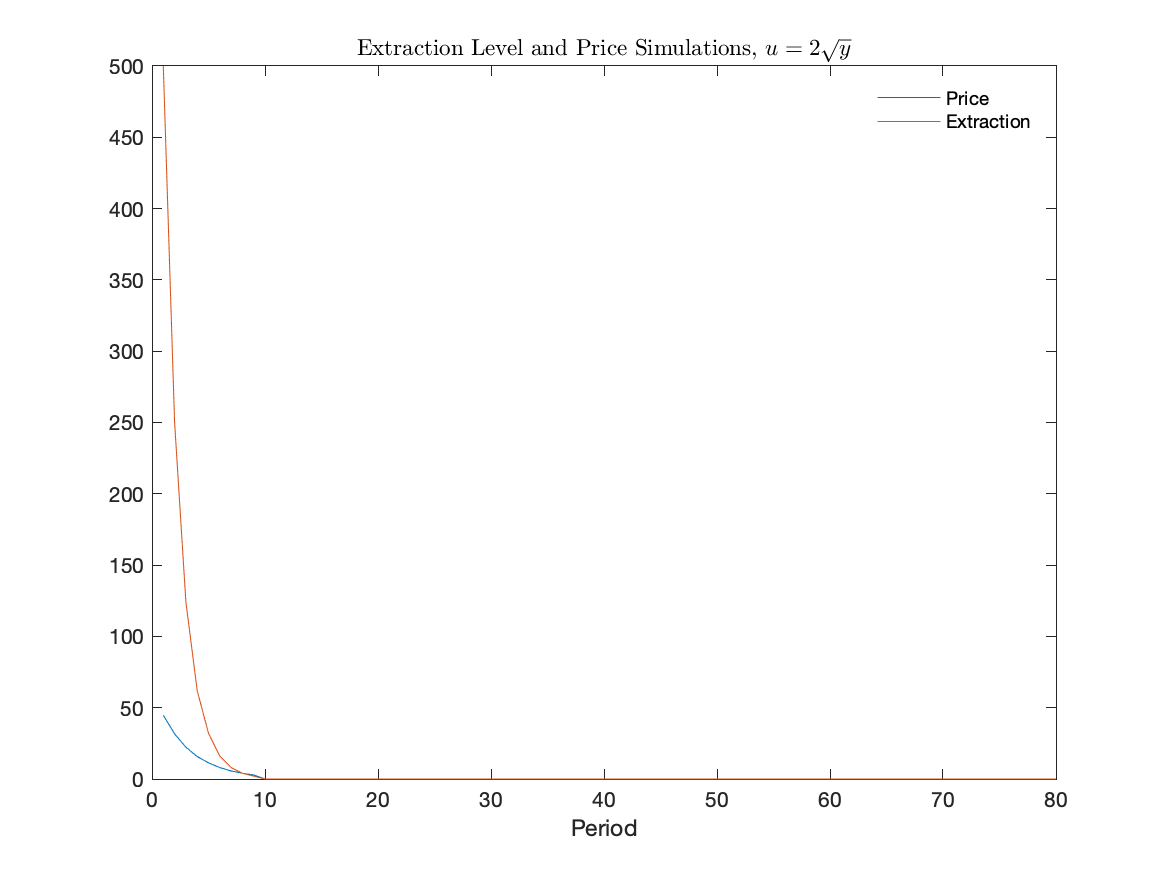
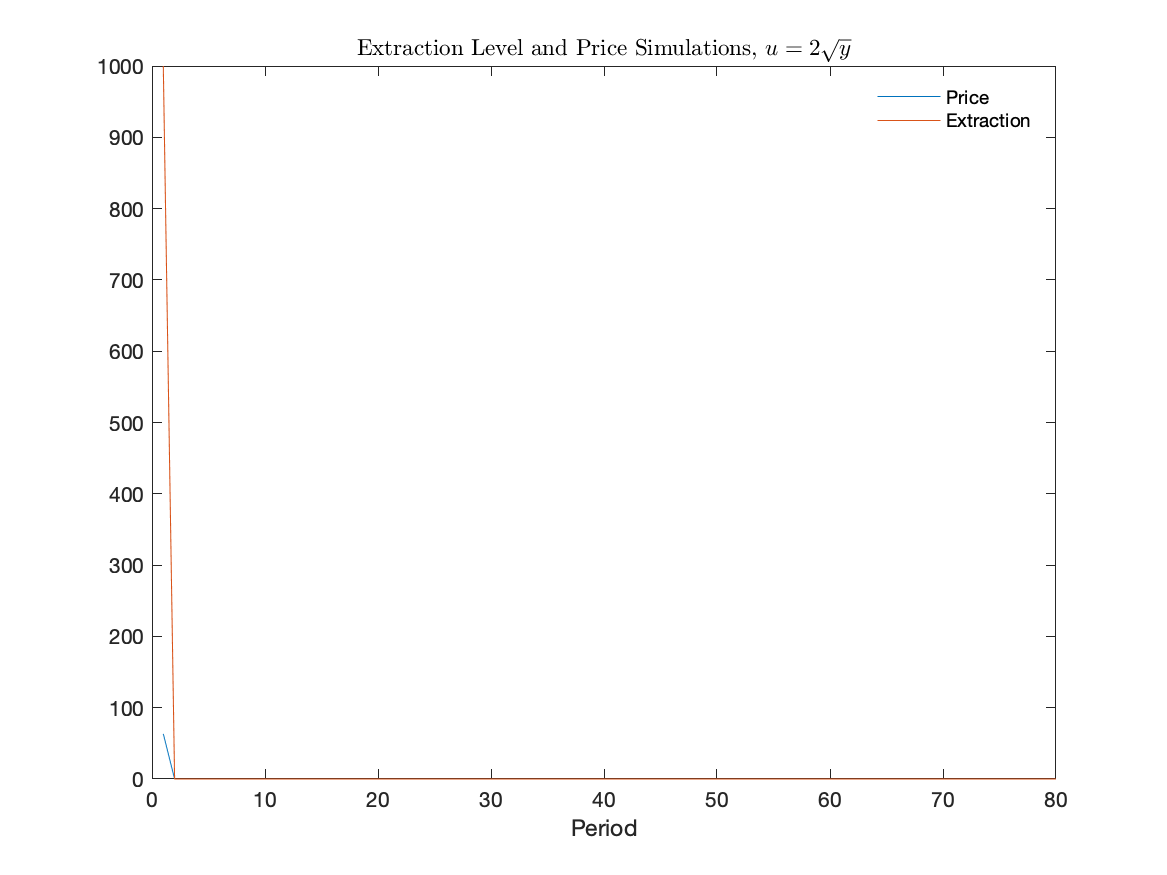
added plots for enviro comp ps

diff --git a/year2/environmental/comp_ps_p1.m b/year2/environmental/comp_ps_p1.m
@@ -13,6 +13,7 @@ clear; clc;
 cd '/Users/zachkuloszewski/Dropbox/My Mac (Zachs-MBP.lan)/Documents/';
 cd 'GitHub/phd_psets/year2/environmental';
 addpath(genpath('figures'));
+addpath(genpath('functions'));
 
 %% Problem 1
 % Solving the DDP by value function iteration; discrete state space.
@@ -32,7 +33,7 @@ nA = numel(A);
 %% part 1c - define utility of extraction
 
 % pick utility function of interest
-u_fun_flag = 2; % choose 1 or 2
+u_fun_flag = 1; % choose 1 or 2
 
 if u_fun_flag == 1
     u = @(x) 2*x.^0.5;
@@ -90,8 +91,8 @@ C_hist = nan(N,1000);
 % iteration counter
 n_iter = 0;
 
-Vold = repelem(-Inf,N);
-
+V     = repelem(0,N)';
+Vold  = V;
 Vnext = nan(N,nA);
 
 while error > error_tol
@@ -99,12 +100,14 @@ while error > error_tol
     % count number iterations
     n_iter = n_iter + 1;
 
+    Vnext = zeros(N,nA);
     for k=1:nA %looping thru action space
-        Vnext(:,k) = T(:,1+(k-1)*N:k*N)*U(:,k);
+        %Vnext(:,k) = T(:,1+(k-1)*N:k*N)*U(:,k);
+        Vnext(:,k) = T(:,1+(k-1)*N:k*N)*V;
     end
 
     % grab optimized value and action column
-    [V, C] = max(U + delta * Vnext,[],2);
+    [V, C] = max(U + delta .* Vnext,[],2);
 
     % store values and choices
     V_hist(:,n_iter) = V;
@@ -113,7 +116,8 @@ while error > error_tol
     error = max(abs(V-Vold));
 
     Vold = V;
-    U    = Vnext;
+
+%     U    = Vnext;
 
 end
 
@@ -149,7 +153,7 @@ for i=1:80
     
 end
 
-save(['part1_values_u' num2str(u_fun_flag)],"C_hist","V_hist","S_hist");
+% save(['part1_values_u' num2str(u_fun_flag)],"C_hist","V_hist","S_hist");
 
 %% part 1j - plots
 

diff --git a/year2/environmental/comp_ps_p2.m b/year2/environmental/comp_ps_p2.m
@@ -13,6 +13,7 @@ clear; clc;
 cd '/Users/zachkuloszewski/Dropbox/My Mac (Zachs-MBP.lan)/Documents/';
 cd 'GitHub/phd_psets/year2/environmental';
 addpath(genpath('figures'));
+addpath(genpath('functions'));
 
 %% Problem 2
 % Interpolating the state space
@@ -52,3 +53,43 @@ flow_UT = triu(infs,1);
 U   = U + flow_UT;
 
 %% part 2b - define interpolated transition matrix
+
+% identify state in next period
+% init matrix w same dimension as flow utility
+transition = nan(N,nA);
+
+for i=1:N % iter through rows
+    for j=1:nA % iter through columns
+        if j > i % if extracting more than full stock
+            transition(i,j) = 1;
+        else
+            transition(i,j) = i-j+1;
+        end
+    end
+end
+
+% state transition matrix
+T = nan(N,N*nA);
+rows = 1:501;
+
+for k=1:nA
+%     inds = S - A(k);
+%     inds(inds<=0) = 1;
+
+    inds = zeros(N,2);
+    wts  = zeros(N,2);
+    
+    %here we need to find the weights
+    for i=1:N
+        [inds(i,:),wts(i,:)] = interp_states(S(i),k,S,A);
+    end
+
+    inds_stack = [inds(:,1); inds(:,2)];
+    wts_stack  = [wts(:,1) ; wts(:,2)];
+    rows_stack = [rows; rows];
+
+    T(:,1+(k-1)*N:k*N) = sparse(rows_stack(wts_stack > 0),inds_stack(wts_stack > 0), ...
+        wts_stack(wts_stack > 0),N,nA);
+end
+
+T = sparse(T);

diff --git a/year2/environmental/functions/interp_states.m b/year2/environmental/functions/interp_states.m
@@ -1,0 +1,17 @@
+function [inds, weights] = interp_states(state, action_ind, S, A)
+    
+    next_state = state-A(action_ind);
+    next_state(next_state < 0) = 0;
+
+    [~,ind1] = find(S > next_state, 1, "first");
+    inds = [ind1-1, ind1];
+
+    if next_state < S(end)
+        wt = (next_state - S(inds(2))) / (S(inds(1)) - S(inds(2)));
+    elseif next_state == S(end)
+        wt = 0;
+        inds = [numel(S)-1,numel(S)];
+    end
+    weights = [wt, 1-wt];
+
+end
